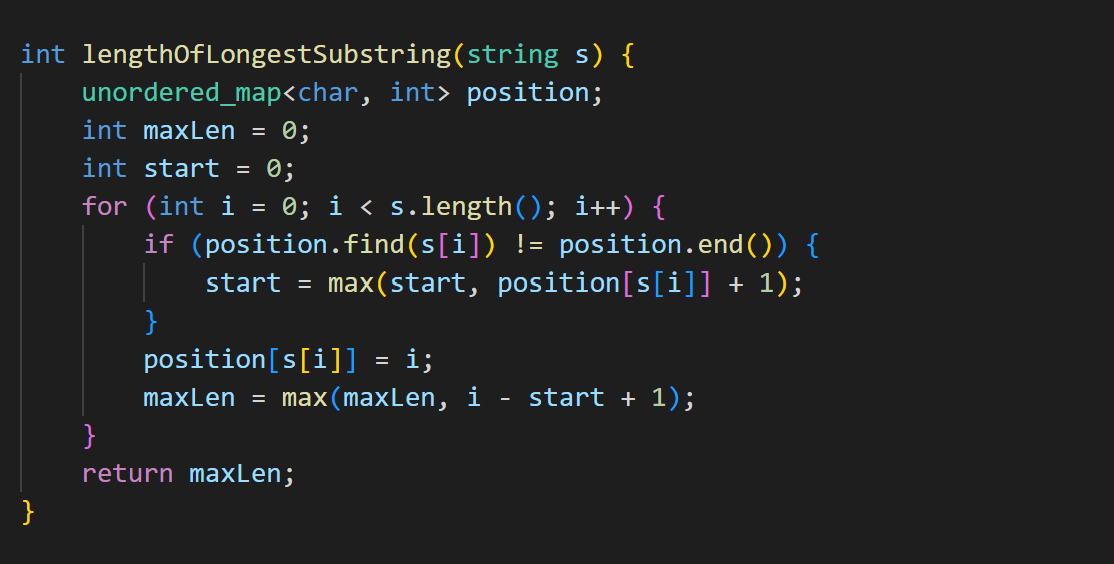
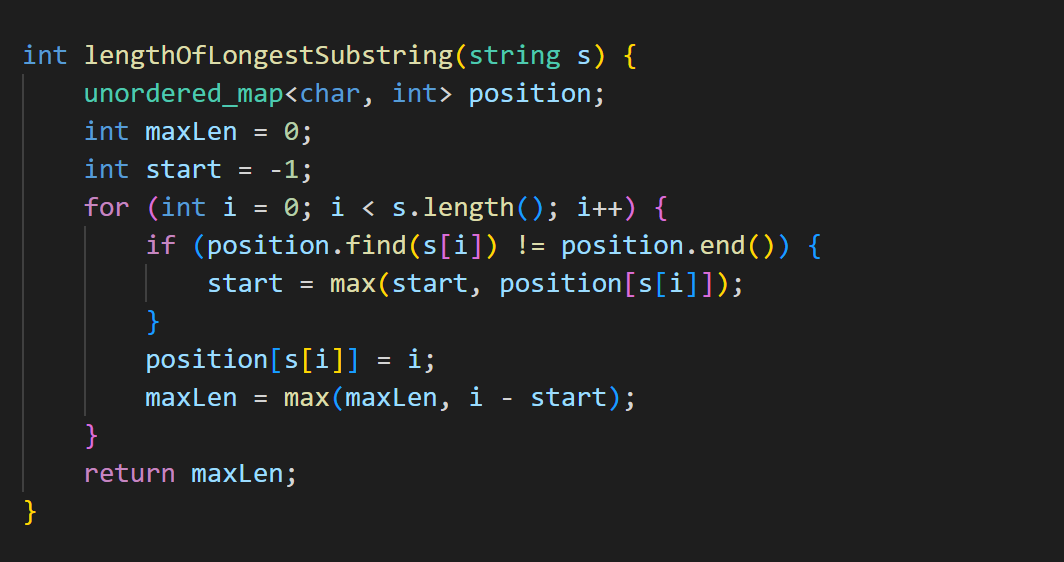
add how to solve

diff --git a/3. Longest Substring Without Repeating Characters/3_Longest_Substring_Without_Repeating_Characters.cpp b/3. Longest Substring Without Repeating Characters/3_Longest_Substring_Without_Repeating_Characters.cpp
@@ -5,13 +5,13 @@ using namespace std;
 int lengthOfLongestSubstring(string s) {
     unordered_map<char, int> position;
     int maxLen = 0;
-    int start = 0;
+    int start = -1;
     for (int i = 0; i < s.length(); i++) {
         if (position.find(s[i]) != position.end()) {
-            start = max(start, position[s[i]] + 1);
+            start = max(start, position[s[i]]);
         }
         position[s[i]] = i;
-        maxLen = max(maxLen, i - start + 1);
+        maxLen = max(maxLen, i - start);
     }
     return maxLen;
 }

diff --git a/326. Power of Three/326_Power_of_Three.cpp b/326. Power of Three/326_Power_of_Three.cpp
@@ -1,0 +1,14 @@
+#include <iostream>
+using namespace std;
+bool isPowerOfThree(int n) {
+    while (n % 3 == 0 && n > 0) {
+        n /= 3;
+    }
+    return n == 1;
+
+}
+int main() {
+    cout << isPowerOfThree(27) << endl;
+    cout << isPowerOfThree(0) << endl;
+    cout << isPowerOfThree(9) << endl;
+}

diff --git a/3. Longest Substring Without Repeating Characters/README.md b/3. Longest Substring Without Repeating Characters/README.md
@@ -1,40 +1,60 @@
-# 3. Longest Substring Without Repeating Characters
+## 3. Longest Substring Without Repeating Characters
 Tag: string
 
-## Problem statement
+### Problem statement
 
 Given a string `s`, find the length of the longest substring without repeating characters.
 
-### Example 1
+#### Example 1
 ```plain
 Input: s = "abcabcbb"
 Output: 3
-Explanation: The answer is "abc", with the length of 3.
+Explanation: The answer is "abc", with a length of 3.
 ```
 
-### Example 2
+#### Example 2
 ```plain
 Input: s = "bbbbb"
 Output: 1
 Explanation: The answer is "b", with the length of 1.
 ```
 
-### Example 3
+#### Example 3
 ```plain
 Input: s = "pwwkew"
 Output: 3
-Explanation: The answer is "wke", with the length of 3.
+Explanation: The answer is "wke", with a length of 3.
 Notice that the answer must be a substring, "pwke" is a subsequence and not a substring.
 ``` 
 
-### Constraints
+#### Constraints
 
 * `0 <= s.length <= 5 * 10^4`.
 * `s` consists of English letters, digits, symbols and spaces.
 
-## Solution: Store the position of the visited characters
+### Solution: Store the position of the visited characters
 
-### Code
+Whenever you meet a visited character `s[i] == s[j]` for some `0 <= i < j < s.length`, the substring `"s[i]...s[j - 1]"` might be valid, i.e. it consist of only nonrepeating characters.
+
+But in case you meet another visited character `s[x] == s[y]` where `x < i < j < y`, the substring `"s[x]...s[y - 1]"` is not valid because it consists of repeated character `s[i] == s[j]`. 
+
+That shows the substring `"s[i]...s[j - 1]"` is not always a valid one. You might need to find the right starting position `start >= i` for the valid substring `"s[start]...s[j - 1]"`.
+
+#### Example 4 
+For the string `s = "babba"`:
+
+* When you visit the second letter `'b'`, the substring `"ba"` is a valid one. 
+* When you visit the third letter `'b'`, the substring of interest should be started by the second letter `'b'`. It gives you the substring `"b"`.
+* When you visit the second letter `'a'`, the substring `"abb"` is not a valid one since `'b'` is repeated. To ensure no repetition, the starting position for this substring should be the latter `'b'`, which leads to the valid substring `"b"`.
+* The final longest valid substring is `"ba"` with length 2.
+
+Example 4 shows the starting position `start` for the substring of interest `"s[i]...s[j - 1]"` should be:
+
+```plain
+this_start = max(previous_start, i).
+```
+
+#### Code
 ```cpp
 #include <iostream>
 #include <unordered_map>
@@ -42,13 +62,13 @@ using namespace std;
 int lengthOfLongestSubstring(string s) {
     unordered_map<char, int> position;
     int maxLen = 0;
-    int start = 0;
+    int start = -1;
     for (int i = 0; i < s.length(); i++) {
         if (position.find(s[i]) != position.end()) {
-            start = max(start, position[s[i]] + 1);
+            start = max(start, position[s[i]]);
         }
         position[s[i]] = i;
-        maxLen = max(maxLen, i - start + 1);
+        maxLen = max(maxLen, i - start);
     }
     return maxLen;
 }
@@ -65,10 +85,10 @@ Output:
 3
 ```
 
-### Complexity
+#### Complexity
 * Runtime: `O(N)`, where `N = s.length`.
 * Extra space: `O(N)`.
 
-## References
+### References
 * [https://leetcode.com/problems/longest-substring-without-repeating-characters/](https://leetcode.com/problems/longest-substring-without-repeating-characters/)
 * [https://www.leetsolve.com/3-longest-substring-without-repeating-characters](https://www.leetsolve.com/3-longest-substring-without-repeating-characters)
